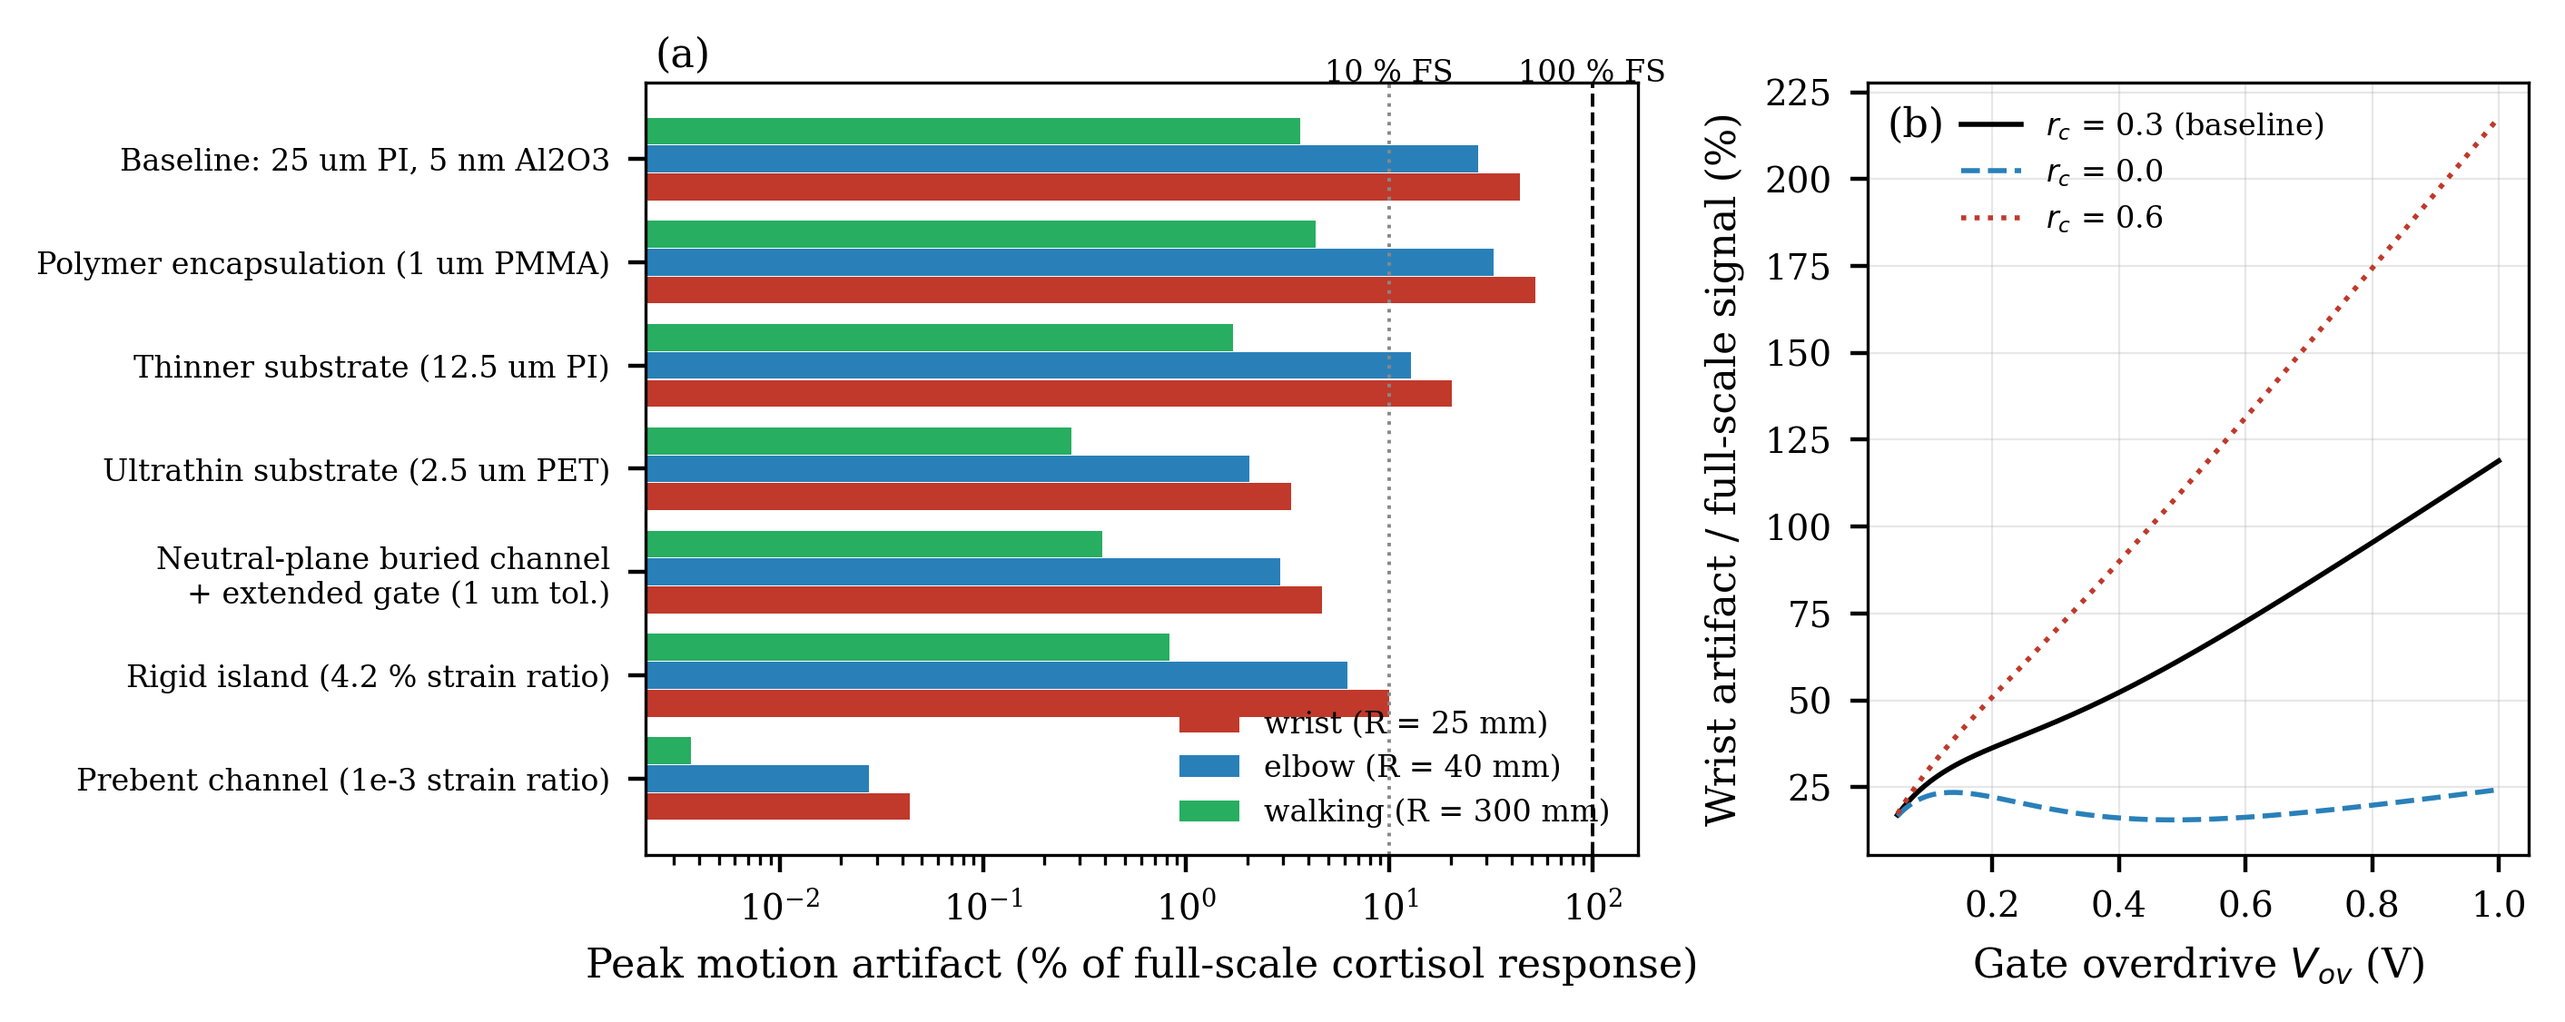
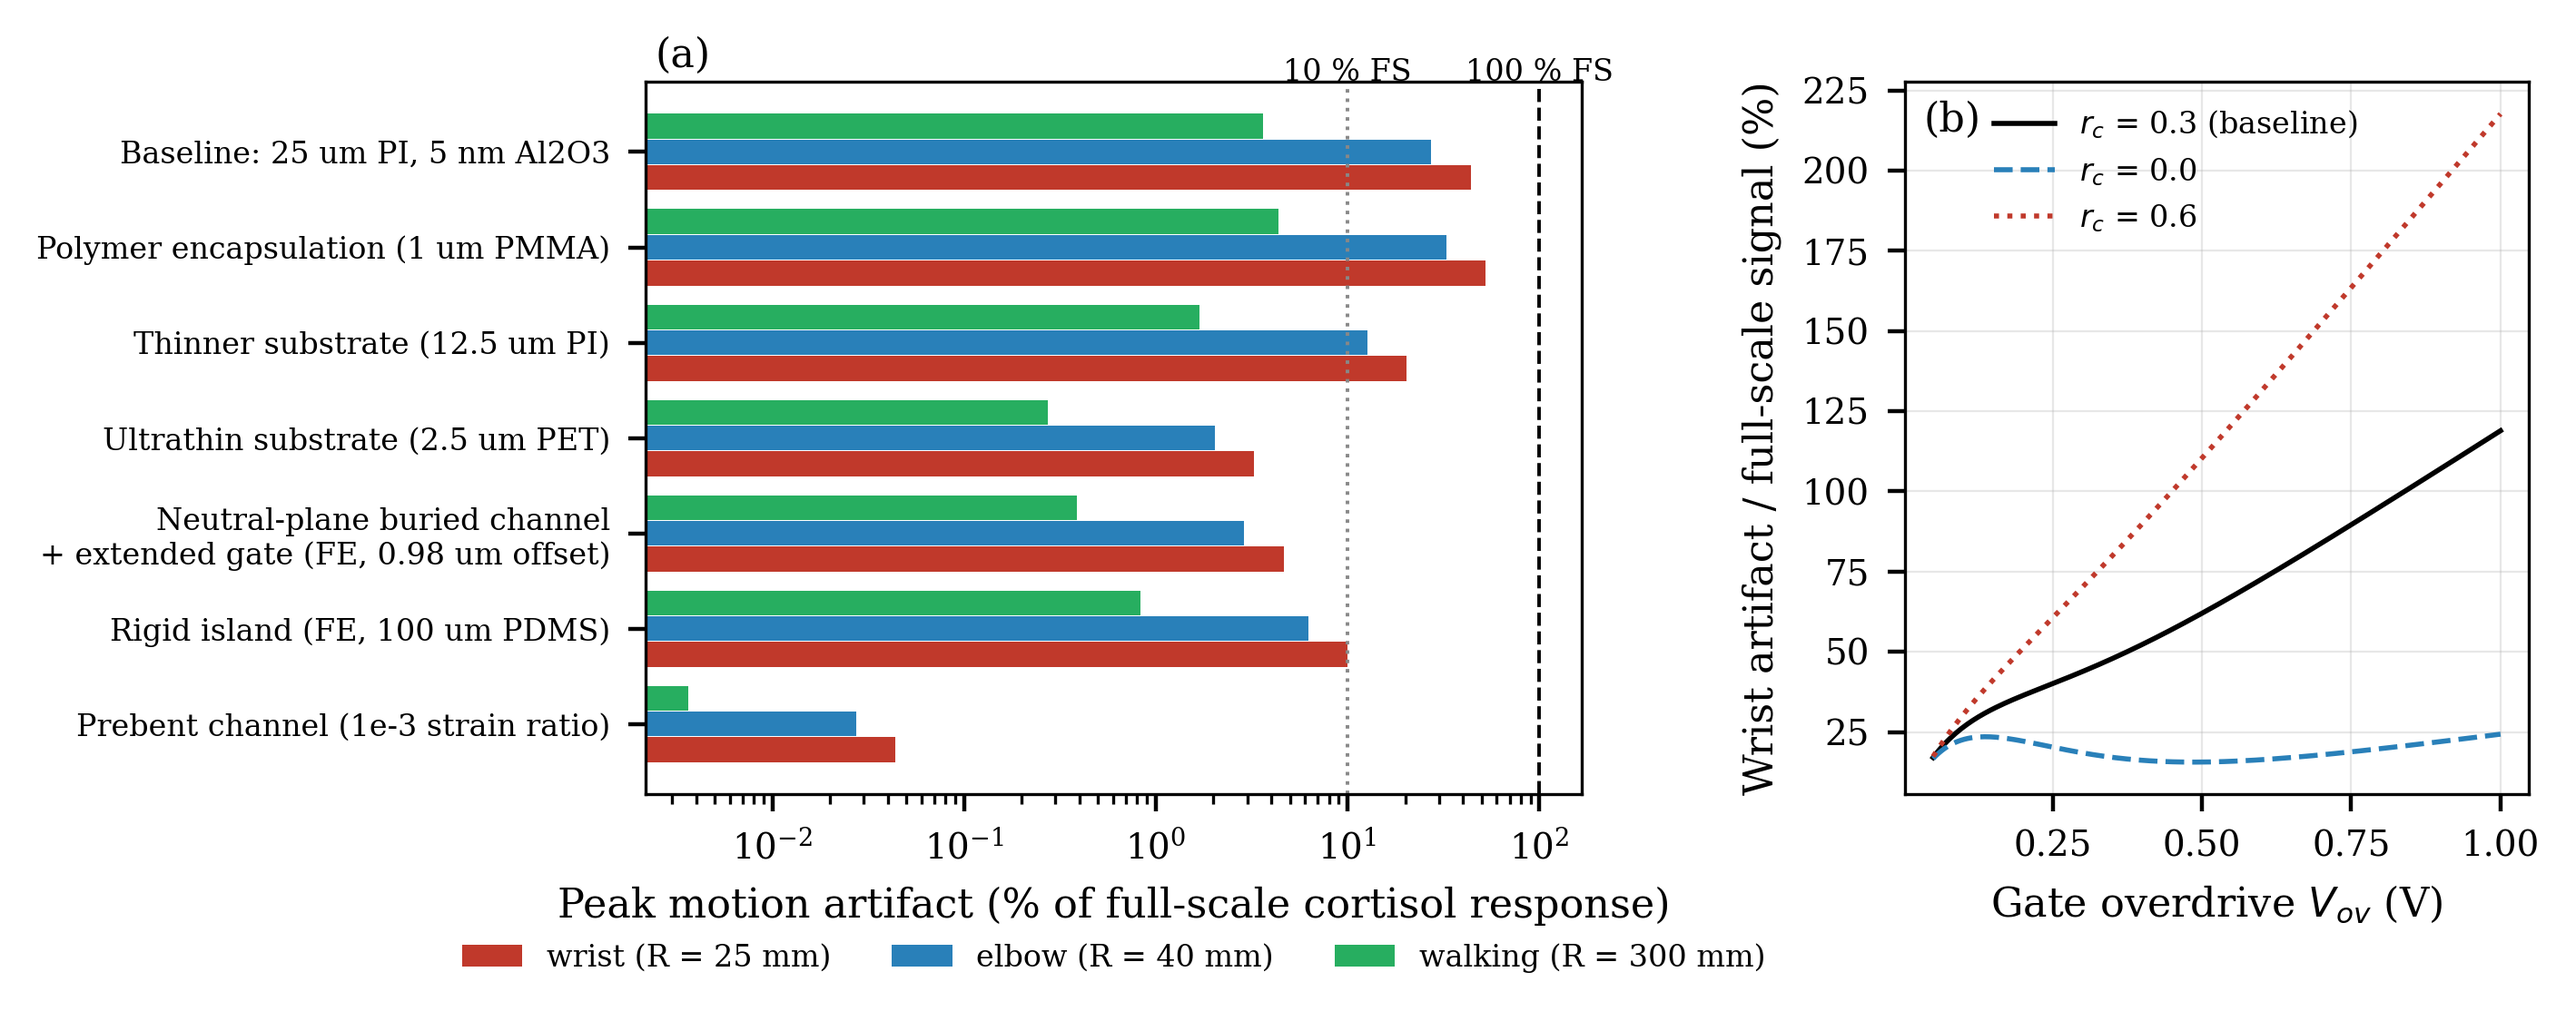
Figure labels for manuscript v2: FE island/buried labels in Fig. 8, legend moved clear of bars; sweep plot cites ref. [14]

diff --git a/make_figures.py b/make_figures.py
@@ -300,6 +300,9 @@ def plot_figs_3_8(C):
     fig, axs = plt.subplots(1, 2, figsize=(DBL, 2.9), gridspec_kw=dict(width_ratios=[1.5, 1]))
     ax = axs[0]
     names = [str(n) for n in C["fig8a_names"]]
+    if SRC == "elmer":   # FE geometries replace the analytic ratios; keys in results.json stay unchanged
+        names = [n.replace("Rigid island (4.2 % strain ratio)", "Rigid island (FE, 100 um PDMS)")
+                  .replace(" (1 um tol.)", " (FE, 0.98 um offset)") for n in names]
     y = np.arange(len(names))
     ax.barh(y + 0.27, C["fig8a_w"], 0.26, color="#c0392b", label="wrist (R = 25 mm)")
     ax.barh(y, C["fig8a_e"], 0.26, color="#2980b9", label="elbow (R = 40 mm)")
@@ -307,7 +310,7 @@ def plot_figs_3_8(C):
     ax.set_xscale("log"); ax.set_yticks(y); ax.set_yticklabels([n.replace(" + extended gate", "\n+ extended gate") for n in names], fontsize=6)
     ax.axvline(100, color="k", ls="--", lw=0.7); ax.text(100, -0.75, "100 % FS", fontsize=6, ha="center")
     ax.axvline(10, color="#888", ls=":", lw=0.7); ax.text(10, -0.75, "10 % FS", fontsize=6, ha="center")
-    ax.set_xlabel("Peak motion artifact (% of full-scale cortisol response)"); ax.legend(frameon=False, fontsize=6, loc="lower right"); ax.invert_yaxis()
+    ax.set_xlabel("Peak motion artifact (% of full-scale cortisol response)"); ax.legend(frameon=False, fontsize=6, loc="upper center", bbox_to_anchor=(0.5, -0.17), ncol=3); ax.invert_yaxis()
     ax.text(0.01, 1.02, "(a)", transform=ax.transAxes)
     ax = axs[1]
     Vov = C["gate_V"]

diff --git a/elmer/plot_island_sweep.py b/elmer/plot_island_sweep.py
@@ -15,7 +15,7 @@ fig, ax = plt.subplots(figsize=(3.45, 2.6))
 ax.plot(t, ratio, "o-", color="#c0392b", label="channel strain / baseline (Elmer)")
 ax.plot(t, kr, "s--", color="#2980b9", label="island curvature / strip mean (Elmer)")
 ax.axhline(d["published_ratio_pct"], color="k", ls=":", lw=0.8)
-ax.text(t[-1], d["published_ratio_pct"] * 1.12, "published ratio used in Python model (4.2 %)", fontsize=6.5, ha="right")
+ax.text(t[-1], d["published_ratio_pct"] * 1.12, "stretching isolation ratio of ref. [14] (4.2 %)", fontsize=6.5, ha="right")
 ax.axhline(100, color="#888", lw=0.6)
 ax.text(t[0], 106, "no island (baseline)", fontsize=6.5, color="#555")
 ax.set_xscale("log"); ax.set_yscale("log")
